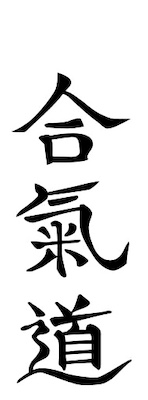
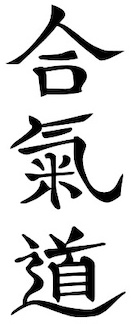
Move aikido text image, add animation.

Changed region(s): [[0.0305, 0.0, 0.9771, 0.9877]]

diff --git a/src/App.tsx b/src/App.tsx
@@ -1,10 +1,11 @@
 import React from 'react';
 
 import logo from './images/logo-aikido-union-linz.jpg';
-import picture1 from './images/aikido_picture1.jpg'
-import picture2 from './images/aikido_picture2.jpg'
-import picture3 from './images/aikido_picture3.jpg'
-import aikikaiLogo from './images/aikikai_logo1.png'
+import picture1 from './images/aikido_picture1.jpg';
+import picture2 from './images/aikido_picture2.jpg';
+import picture3 from './images/aikido_picture3.jpg';
+import aikikaiLogo from './images/aikikai_logo1.png';
+import aikidoText from './images/aikido_clipart2.jpg';
 import "react-responsive-carousel/lib/styles/carousel.min.css"; // requires a loader
 
 import './App.css';
@@ -81,13 +82,11 @@ function App() {
                     alt="Aikido Bild 1"
                     src={picture1}
                   />
-
                   <Box
                     component="img"
                     alt="Aikido Bild 2"
                     src={picture2}
                   />
-
                   <Box
                     component="img"
                     alt="Aikido Bild 3"
@@ -95,6 +94,13 @@ function App() {
                   />
                 </Carousel>
               </Box>
+            </Grid2>
+            <Grid2 size={4} textAlign={'end'} className="aikido-text">
+              <Box marginTop={2}
+                component="img"
+                alt="Aikdo text"
+                src={aikidoText}
+              />
             </Grid2>
             <Grid2 size={12}>
               <Typography variant="h6" component="div" sx={{ flexGrow: 1, alignSelf: 'left' }}>

diff --git a/src/App.css b/src/App.css
@@ -4,10 +4,20 @@
 
 .headline {
     color: brown;
-    font-family: 'Helvetica';
 }
 
-.page-container {
-    background: no-repeat url('images/aikido_clipart2.jpg');
-    background-position-x: right;
+.aikido-text, .aikikai-logo {
+    animation: 3s 1 normal slidein;
 }
+
+@keyframes slidein {
+    from {
+      translate: 150vw 0;
+      scale: 200% 1;
+    }
+  
+    to {
+      translate: 0 0;
+      scale: 100% 1;
+    }
+  }
